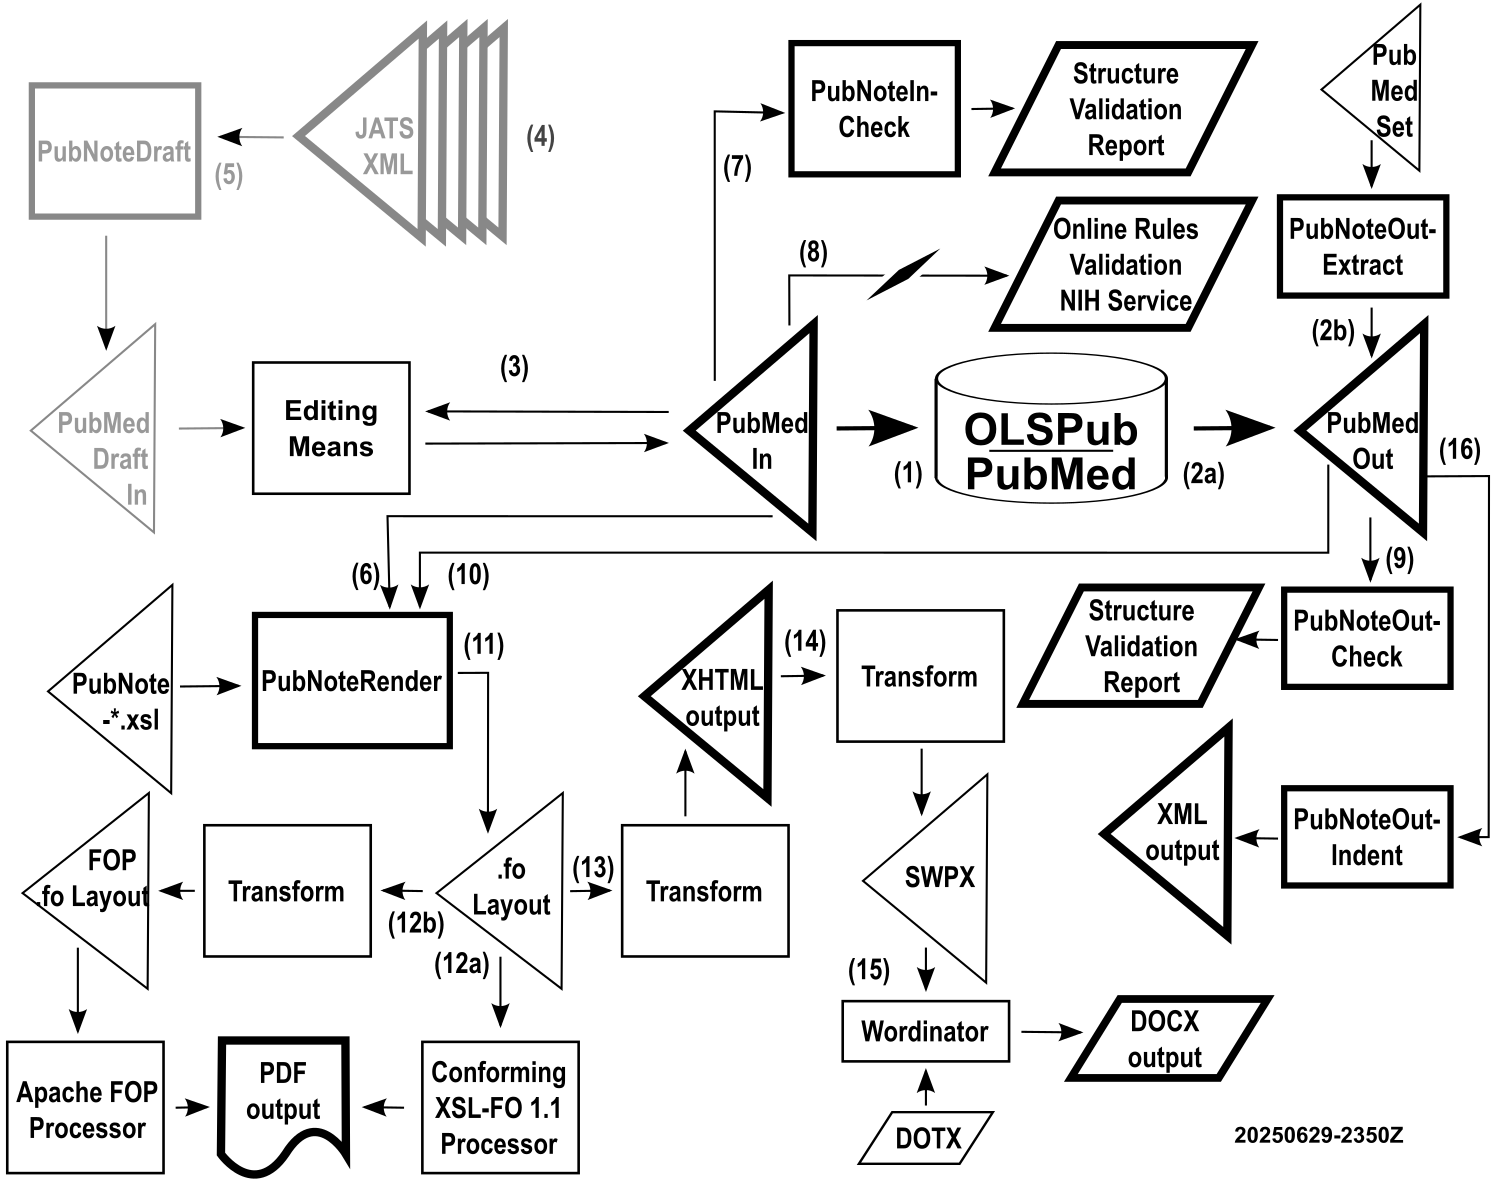
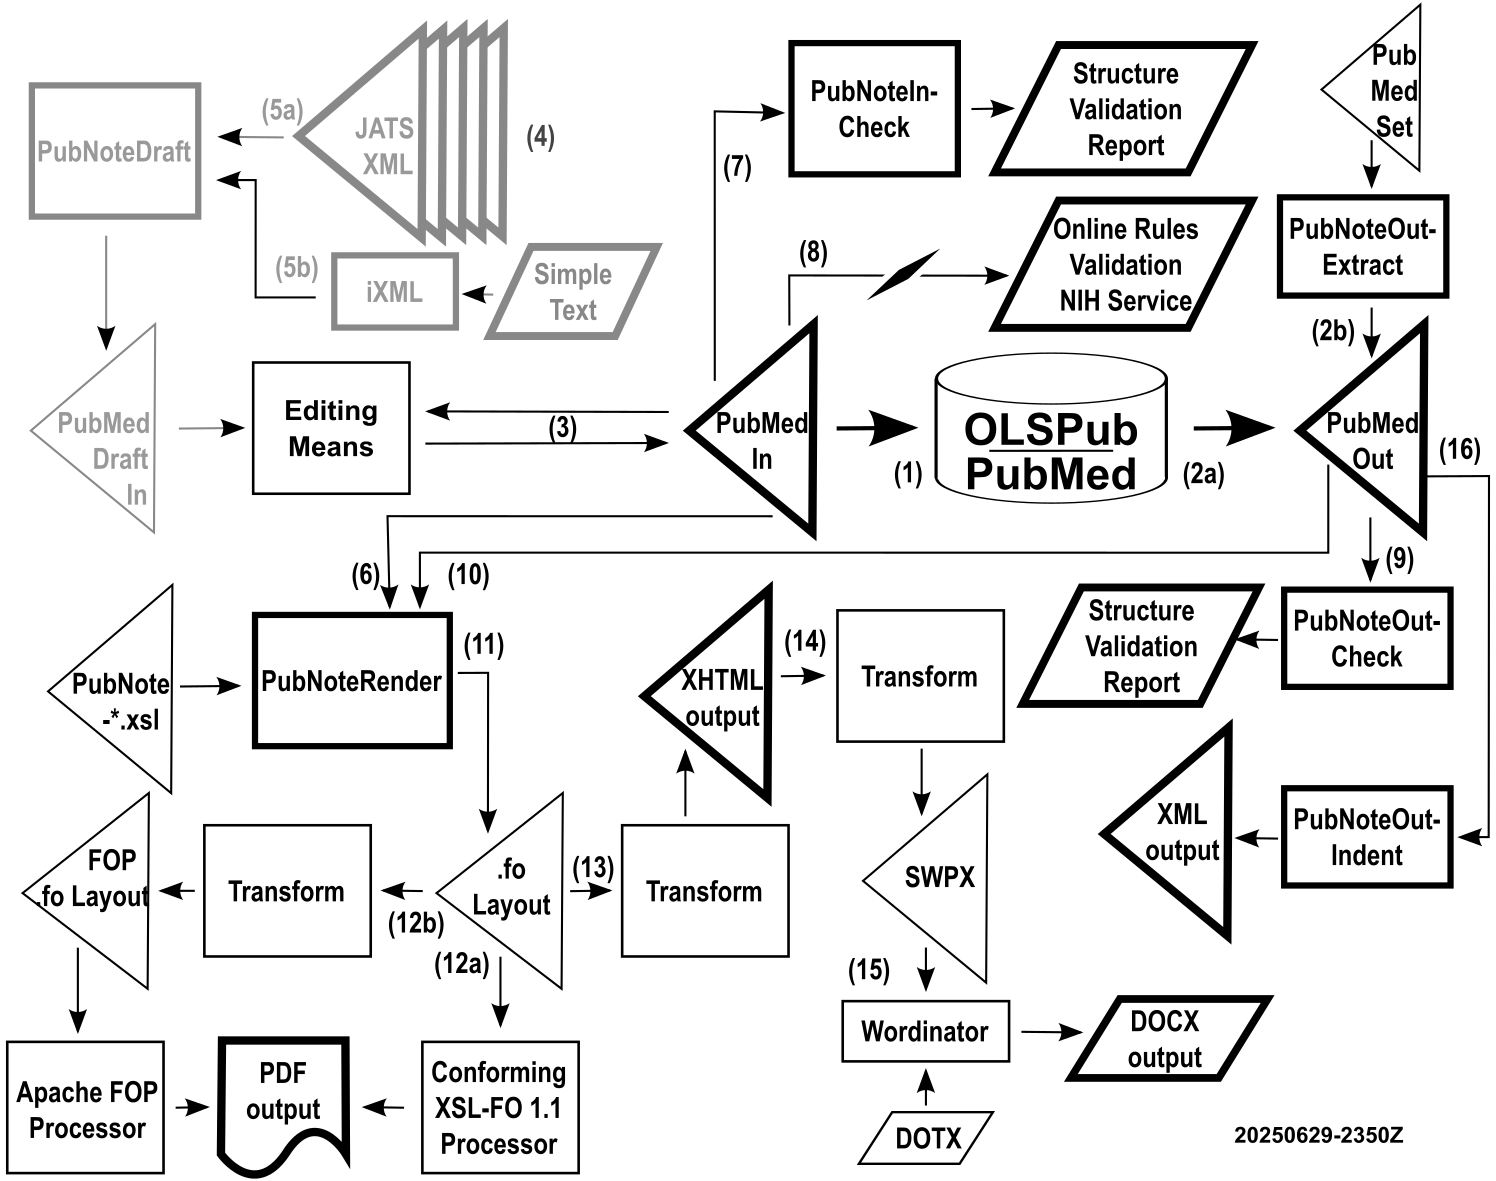
w.i.p.

diff --git a/README.md b/README.md
@@ -72,7 +72,9 @@ The \<PubNote> visualization/validation environment wraps around these two "in/s
 
 3. Presumably, there is some editing process for the user's **PubMedIn** submission document  
 4. The user may have a store of JATS XML documents from which to draft the **PubMedIn** submission  
-5. Optionally, the user uses **PubNoteDraft** to create a **PubMedDraftIn** document as a starting point _(Phase 2)_  
+5. Optionally, the user uses **PubNoteDraft** to create a **PubMedDraftIn** document as a starting point _(Phase 2)_
+5a. e.g. a distillation of multiple JATS XML documents into a draft, or
+5b. e.g. a simple text file with no angle brackets converted to XML using iXML  
 6. For human review, **PubNoteRender** formats the information found in a **PubMedIn** document  
 7. Optionally, **PubNoteInCheck** can validate a **PubMedIn** document against the `PubMed.dtd`  
 8. Optionally, a **PubMedIn** document can be checked using the NIH online business rules validator  
